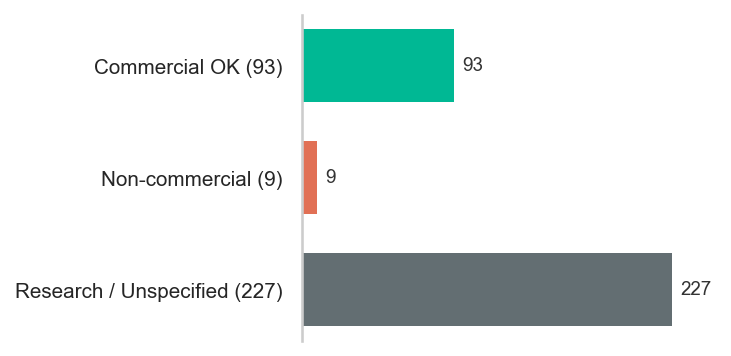
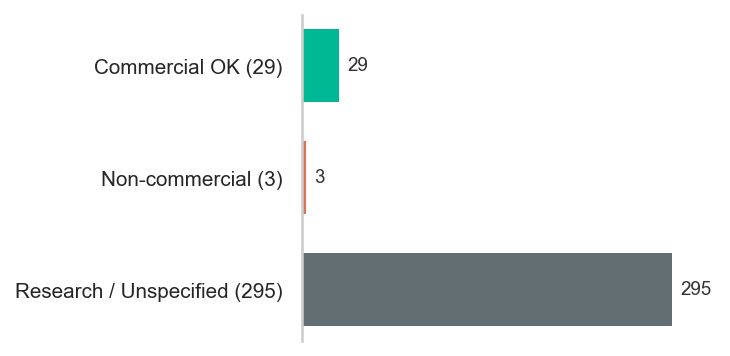
Cache WMReward checkpoint verification, document pairwise compare, and refresh license chart

diff --git a/src/ayase/modules/wmreward.py b/src/ayase/modules/wmreward.py
@@ -1,7 +1,9 @@
 """WMReward latent prediction surprise using the V-JEPA 2 ViT-g predictor."""
 
 import hashlib
+import json
 import logging
+import os
 from pathlib import Path
 
 from ayase.models import QualityMetrics, Sample
@@ -69,6 +71,41 @@ class WMRewardModule(PipelineModule):
         super().__init__(config)
         self._encoder = self._predictor = self._device = self._backend = None
 
+    @staticmethod
+    def _verify_checkpoint(checkpoint: Path, sidecar: Path) -> None:
+        st = checkpoint.stat()
+        if sidecar.is_file():
+            try:
+                cached = json.loads(sidecar.read_text(encoding="utf-8"))
+                if (
+                    isinstance(cached, dict)
+                    and cached.get("sha256") == WEIGHTS_SHA256
+                    and cached.get("size") == st.st_size
+                    and cached.get("mtime_ns") == st.st_mtime_ns
+                ):
+                    return
+            except Exception:
+                pass
+
+        digest = hashlib.sha256()
+        with checkpoint.open("rb") as file:
+            for block in iter(lambda: file.read(8 * 1024 * 1024), b""):
+                digest.update(block)
+        if digest.hexdigest() != WEIGHTS_SHA256:
+            sidecar.unlink(missing_ok=True)
+            raise ValueError("WMReward ViT-g checkpoint has an unexpected SHA-256 digest")
+
+        tmp = sidecar.with_suffix(".tmp")
+        payload = json.dumps(
+            {
+                "sha256": WEIGHTS_SHA256,
+                "size": st.st_size,
+                "mtime_ns": st.st_mtime_ns,
+            }
+        )
+        tmp.write_text(payload, encoding="utf-8")
+        os.replace(tmp, sidecar)
+
     def setup(self):
         if self.test_mode:
             return
@@ -92,12 +129,7 @@ class WMRewardModule(PipelineModule):
                     checkpoint = download_model_file(
                         "wmreward/vitg.pt", WEIGHTS_URL, str(models_dir)
                     )
-                digest = hashlib.sha256()
-                with checkpoint.open("rb") as file:
-                    for block in iter(lambda: file.read(8 * 1024 * 1024), b""):
-                        digest.update(block)
-                if digest.hexdigest() != WEIGHTS_SHA256:
-                    raise ValueError("WMReward ViT-g checkpoint has an unexpected SHA-256 digest")
+                    self._verify_checkpoint(checkpoint, directory / "vitg.pt.verified.json")
             self._encoder, self._predictor = _load_vitg(checkpoint, device)
             self._device = device
             self._backend = "vjepa2_vitg"
@@ -130,7 +162,7 @@ class WMRewardModule(PipelineModule):
         positions = torch.arange(total, device=self._device).unsqueeze(0)
         context, future = positions[:, :split].contiguous(), positions[:, split:].contiguous()
         scores = []
-        with torch.no_grad():
+        with torch.inference_mode():
             for start in range(0, count - WINDOW_SIZE + 1, WINDOW_STRIDE):
                 window = clip[:, :, start : start + WINDOW_SIZE].contiguous()
                 observed = encoder(window)[:, split:total]

diff --git a/tests/modules/per_module/test_wmreward.py b/tests/modules/per_module/test_wmreward.py
@@ -14,3 +14,57 @@ def test_wmreward_sample(video_sample, monkeypatch):
     assert module.process(video_sample).quality_metrics.latent_prediction_reward == 0.42
     module.on_dispose()
     assert module._encoder is None
+
+
+def test_wmreward_checkpoint_verification_cache(tmp_path, monkeypatch):
+    import hashlib
+    import json
+
+    import ayase.config as config_mod
+    import ayase.modules.wmreward as wm_mod
+
+    models_dir = tmp_path / "models"
+    ckpt_dir = models_dir / "wmreward"
+    ckpt_dir.mkdir(parents=True)
+    ckpt_path = ckpt_dir / "vitg.pt"
+    ckpt_path.write_bytes(b"valid-weights-payload")
+    expected_sha = hashlib.sha256(b"valid-weights-payload").hexdigest()
+
+    monkeypatch.setattr(wm_mod, "WEIGHTS_SHA256", expected_sha)
+    monkeypatch.setattr(wm_mod.WMRewardModule, "test_mode", False)
+    monkeypatch.setattr(
+        config_mod,
+        "download_model_file",
+        lambda rel, url, mdir: ckpt_path,
+    )
+    monkeypatch.setattr(wm_mod, "_load_vitg", lambda path, dev: ("enc", "pred"))
+
+    # 1) First setup computes SHA-256 and writes sidecar
+    mod1 = wm_mod.WMRewardModule({"models_dir": str(models_dir), "device": "cpu"})
+    mod1.setup()
+    assert mod1._encoder == "enc"
+    sidecar = ckpt_dir / "vitg.pt.verified.json"
+    assert sidecar.is_file()
+    meta = json.loads(sidecar.read_text(encoding="utf-8"))
+    assert meta["sha256"] == expected_sha
+    assert meta["size"] == ckpt_path.stat().st_size
+    assert meta["mtime_ns"] == ckpt_path.stat().st_mtime_ns
+
+    # 2) Second setup with unchanged (size, mtime_ns) skips re-hashing
+    real_sha256 = hashlib.sha256
+
+    def fail_sha256():
+        raise AssertionError("sha256() should not be called when sidecar matches")
+
+    monkeypatch.setattr(wm_mod.hashlib, "sha256", fail_sha256)
+    mod2 = wm_mod.WMRewardModule({"models_dir": str(models_dir), "device": "cpu"})
+    mod2.setup()
+    assert mod2._encoder == "enc"
+
+    # 3) Modified file triggers re-hash, removes stale sidecar, and rejects corrupt checkpoint
+    monkeypatch.setattr(wm_mod.hashlib, "sha256", real_sha256)
+    ckpt_path.write_bytes(b"corrupted-payload-changed-size")
+    mod3 = wm_mod.WMRewardModule({"models_dir": str(models_dir), "device": "cpu"})
+    mod3.setup()
+    assert mod3._encoder is None
+    assert not sidecar.exists()

diff --git a/docs/usage.md b/docs/usage.md
@@ -141,6 +141,29 @@ checkpoints and source archives. It can also be set with
 `AYASE_GENERAL__ASSETS_REPO`; a module profile's `assets_repo` value takes
 precedence for that module.
 
+## Pairwise comparison
+
+`ayase.pairwise.compare(rows, *, draws=1000, seed=0)` fits Bradley–Terry
+log-strengths from pairwise preferences over shared prompts:
+
+```python
+from ayase.pairwise import compare
+
+report = compare(
+    [
+        {"prompt": "p1", "model_a": "m1", "model_b": "m2", "outcome": "a"},
+        {"prompt": "p2", "model_a": "m1", "model_b": "m2", "outcome": "tie"},
+    ],
+    draws=1000,
+    seed=0,
+)
+```
+
+Each row requires `prompt`, `model_a`, `model_b`, and `outcome` (`"a"`, `"b"`,
+or `"tie"`, counted as half a win per side). Disconnected comparison subgraphs
+are returned as separate `components` with `connected: false`, and `ci95` gives
+prompt-level bootstrap 95% intervals when a component spans multiple prompts.
+
 See [managed backends](managed_backends.md) for runtime caching and expert
 backend overrides, or [the isolated client](isolated_client.md) to keep Ayase
 outside an application's dependency environment.
